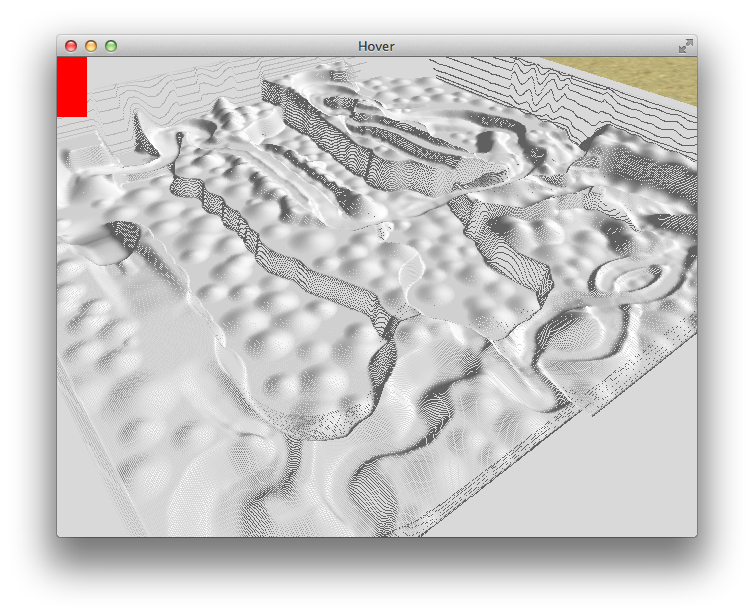
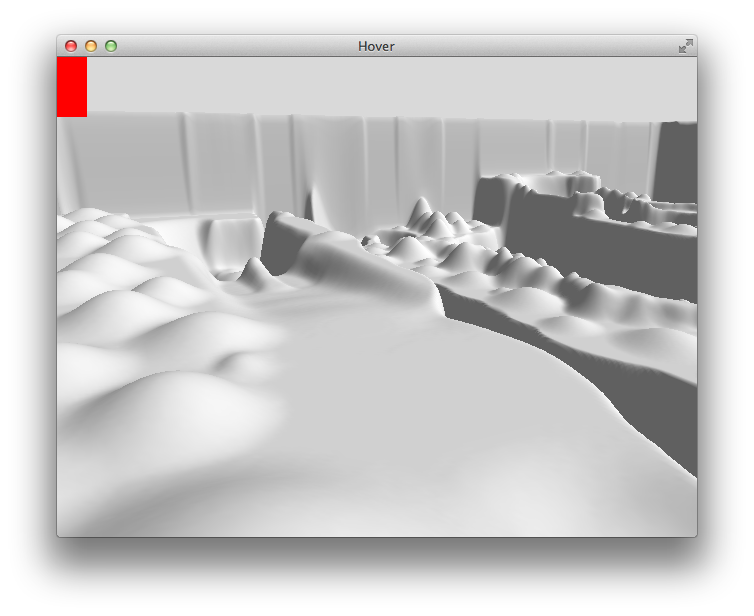
Render track as parallel triangle strips, immediate mode.
Enable depth test.

diff --git a/main.go b/main.go
@@ -234,22 +234,26 @@ func (track *Track) Render() {
 	gl.End()
 	gl.Disable(gl.TEXTURE_2D)
 
+	for y := uint16(1); y < track.Depth; y++ {
+		gl.Begin(gl.TRIANGLE_STRIP)
+		for x := uint16(0); x < track.Width; x++ {
+			for i := uint16(0); i < 2; i++ {
+				yy := y - i
+
+				terrCoord := track.TerrCoords[uint64(yy)*uint64(track.Width)+uint64(x)]
+				height := float64(terrCoord.Height)*0.035 - 500
+				lightIntensity := float64(terrCoord.LightIntensity) / 255.0
+
+				gl.Color3d(gl.Double(lightIntensity), gl.Double(lightIntensity), gl.Double(lightIntensity))
+				gl.Vertex3d(gl.Double(x), gl.Double(yy), gl.Double(height))
+			}
+		}
+		gl.End()
+	}
+
 	if wireframe {
 		gl.PolygonMode(gl.FRONT_AND_BACK, gl.FILL)
 	}
-
-	gl.Begin(gl.POINTS)
-	for x := uint16(0); x < track.Width; x++ {
-		for y := uint16(0); y < track.Depth; y++ {
-			terrCoord := track.TerrCoords[uint64(y)*uint64(track.Depth)+uint64(x)]
-			height := float64(terrCoord.Height)*0.02 - 500
-			lightIntensity := float64(terrCoord.LightIntensity) / 255.0
-
-			gl.Color3d(gl.Double(lightIntensity), gl.Double(lightIntensity), gl.Double(lightIntensity))
-			gl.Vertex3d(gl.Double(x), gl.Double(y), gl.Double(height))
-		}
-	}
-	gl.End()
 }
 
 var startedProcess = time.Now()
@@ -351,6 +355,8 @@ func main() {
 	window.SetKeyCallback(func(w *glfw.Window, key glfw.Key, scancode int, action glfw.Action, mods glfw.ModifierKey) {
 		if action == glfw.Press || action == glfw.Repeat {
 			switch key {
+			case glfw.KeyEscape:
+				window.SetShouldClose(true)
 			case glfw.KeyF1:
 				wireframe = !wireframe
 				goon.DumpExpr(wireframe)
@@ -360,6 +366,7 @@ func main() {
 
 	gl.ClearColor(0.85, 0.85, 0.85, 1)
 	//gl.Enable(gl.CULL_FACE)
+	gl.Enable(gl.DEPTH_TEST)
 
 	fpsWidget := NewFpsWidget(mathgl.Vec2d{0, 60})
 
@@ -370,14 +377,14 @@ func main() {
 
 	// ---
 
-	for !window.ShouldClose() && glfw.Press != window.GetKey(glfw.KeyEscape) {
+	for !window.ShouldClose() {
 		frameStartTime := time.Now()
 
 		glfw.PollEvents()
 
 		// Input
 
-		gl.Clear(gl.COLOR_BUFFER_BIT)
+		gl.Clear(gl.COLOR_BUFFER_BIT | gl.DEPTH_BUFFER_BIT)
 
 		Set3DProjection()
 		track.Render()
@@ -392,11 +399,13 @@ func main() {
 
 		fpsWidget.PushTimeTotal(time.Since(frameStartTime).Seconds() * 1000)
 	}
+
+	goon.DumpExpr(camera)
 }
 
 // ---
 
-var camera = Camera{x: -128, y: -128, z: 256}
+var camera = Camera{x: 160.12941888695732, y: 685.2641404161014, z: 170, rh: 115.50000000000003, rv: -14.999999999999998}
 
 type Camera struct {
 	x float64
